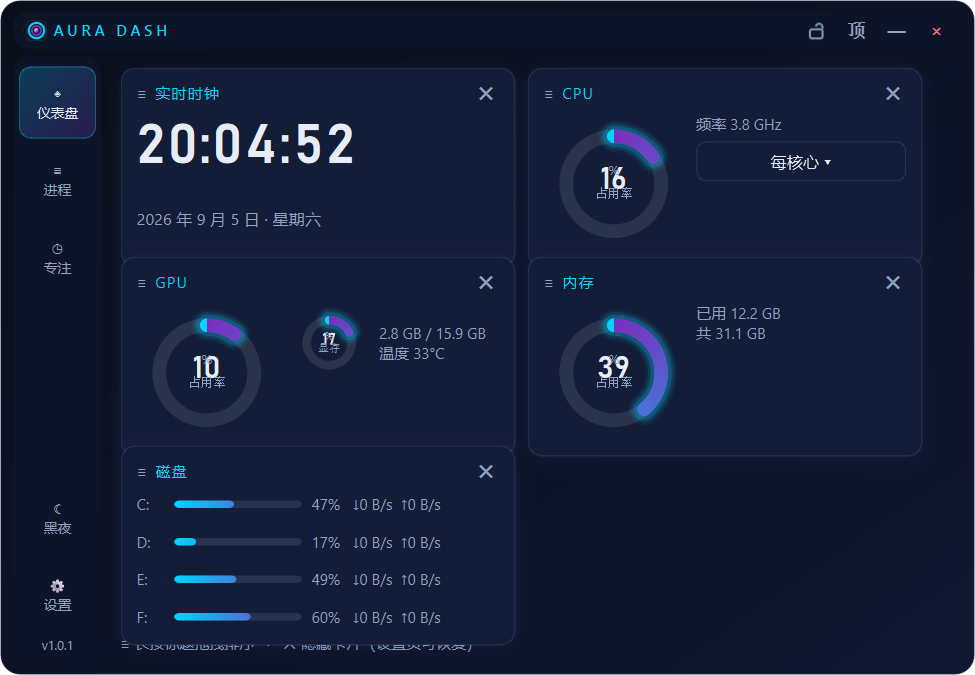
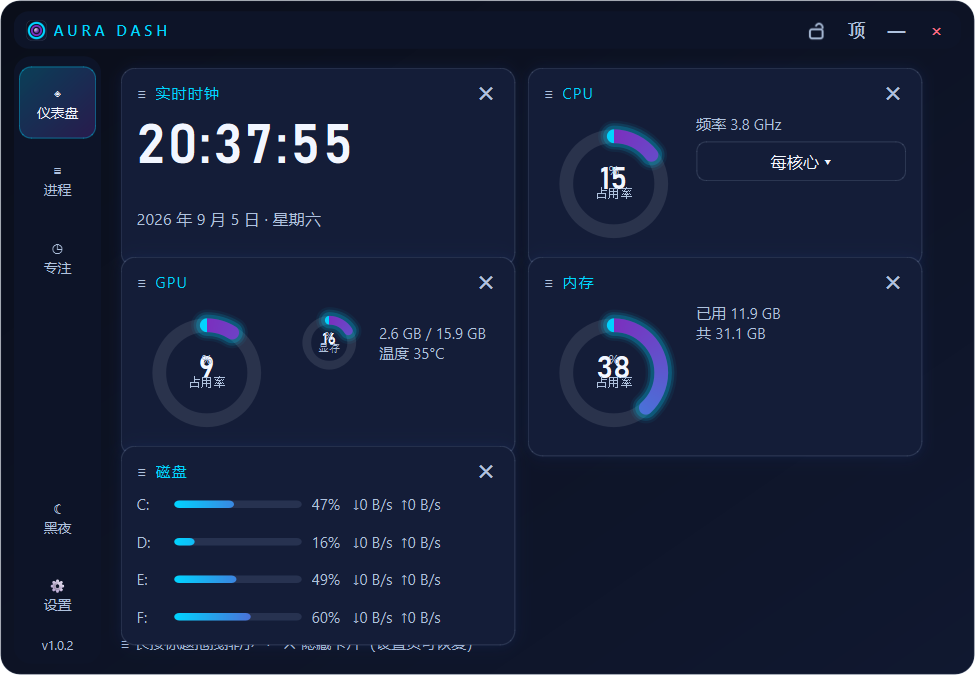
fix(ui): v1.0.2 - 设置界面高对比 & 仪表盘响应式单列
- 设置窗口：实底卡片背景 + 专属文字配色规则，标签/下拉/复选一律高对比亮色
- 次要文字全局提亮（深色主题 #8FA3C0 → #AFC2DE）
- 设置窗口标签页（QTabBar）完整样式：选中渐变高亮
- 仪表盘：窗口变窄（<580px）时卡片自动转为单列，避免重叠遮挡
- 版本号 1.0.2

diff --git a/aurar/pages/dashboard.py b/aurar/pages/dashboard.py
@@ -368,9 +368,9 @@ class DashboardPage(Page):
         for cid, factory in CARD_FACTORIES.items():
             card = factory(self)
             self._cards[cid] = card
-        hint = make_label("≡ 长按标题拖拽排序   ·   ✕ 隐藏卡片（设置页可恢复）",
-                          "SubText", size=11, parent=self)
-        self._grid.addWidget(hint, 99, 0, 1, 2, Qt.AlignmentFlag.AlignLeft)
+        self._hint = make_label("≡ 长按标题拖拽排序   ·   ✕ 隐藏卡片（设置页可恢复）",
+                                "SubText", size=11, parent=self)
+        self._grid.addWidget(self._hint, 99, 0, 1, 2, Qt.AlignmentFlag.AlignLeft)
         self._grid.setRowStretch(99, 1)
         self.subscribe("sysmon:data", self.on_data)
         self.cfg.changed.connect(self._on_cfg)
@@ -386,14 +386,32 @@ class DashboardPage(Page):
         order += [cid for cid in CARD_FACTORIES if cid not in order]
         return [cid for cid in order if cid in self._cards and cid not in hidden]
 
-    def _relayout(self):
+    def _cols_for(self, width: int) -> int:
+        """窗口变窄时卡片自动收为单列，避免重叠遮挡。"""
+        return 1 if width < 580 else 2
+
+    def _relayout(self, cols: int | None = None):
+        if cols is None:
+            cols = self._cols_for(self.width())
+        cols = max(1, min(2, cols))
+        self._cols = cols
         for card in self._cards.values():
             self._grid.removeWidget(card)
+        self._grid.removeWidget(self._hint)
         for i, cid in enumerate(self._visible_order()):
             card = self._cards[cid]
-            self._grid.addWidget(card, i // 2, i % 2)
+            self._grid.addWidget(card, i // cols, i % cols)
             card.setMinimumHeight(160)
+        self._grid.addWidget(self._hint, 99, 0, 1, cols, Qt.AlignmentFlag.AlignLeft)
         self._grid.setRowStretch(99, 1)
+
+    def resizeEvent(self, ev):
+        super().resizeEvent(ev)
+        if not hasattr(self, "_hint"):
+            return  # 尚未构建完成
+        new_cols = self._cols_for(self.width())
+        if new_cols != getattr(self, "_cols", None):
+            self._relayout(new_cols)
 
     def hide_card(self, cid: str):
         hidden = [h for h in self.cfg.get("hidden_cards", []) if h != cid]

diff --git a/aurar/core/theme.py b/aurar/core/theme.py
@@ -13,8 +13,8 @@ log = get_logger("theme")
 BASE_DARK = {
     "bg": "#0A0E1A",
     "bg2": "#101830",
-    "text": "#E6ECF8",
-    "sub": "#8FA3C0",
+    "text": "#F2F6FF",
+    "sub": "#AFC2DE",       # 次要文字：提亮，保证深色背景下高对比
     "danger": "#FF6B81",
     "card": "#141D38",      # 卡片实底（不随透明度变化 → 文字始终高对比）
     "chrome": "#0D1428",    # 标题栏/侧栏实底
@@ -269,6 +269,24 @@ QToolTip {
     border-radius: 6px; padding: 4px 8px;
 }
 QSizeGrip { background: transparent; width: 14px; height: 14px; }
-QMessageBox, QDialog { background: @@BG2@@; }
+QMessageBox, QDialog {
+    background: @@CARD@@; border: 1px solid @@BORDER@@;
+}
+QDialog QLabel { color: @@TEXT@@; }
+QDialog QLabel#SubText { color: @@SUB@@; }
+QDialog QCheckBox { color: @@TEXT@@; }
+
+/* ---------- 标签页（设置窗口） ---------- */
+QTabWidget::pane { border: none; margin-top: 8px; }
+QTabBar::tab {
+    background: transparent; color: @@SUB@@; padding: 8px 18px;
+    border: none; border-radius: 9px; margin-right: 4px; font-size: 13px;
+}
+QTabBar::tab:hover { color: @@TEXT@@; background: @@PANEL2@@; }
+QTabBar::tab:selected {
+    background: qlineargradient(x1:0, y1:0, x2:1, y2:0,
+                stop:0 rgba(0,212,255,0.25), stop:1 rgba(123,47,190,0.28));
+    color: @@TEXT@@; font-weight: 600;
+}
 QStatusBar { background: transparent; color: @@SUB@@; }
 """

diff --git a/main.py b/main.py
@@ -20,7 +20,7 @@ def _build_parser():
                         help="启动时不申请管理员权限")
     parser.add_argument("--screenshot", metavar="DIR",
                         help="开发者工具：将各页面截图保存到 DIR 后退出")
-    parser.add_argument("--version", action="version", version="AuraDash 1.0.1")
+    parser.add_argument("--version", action="version", version="AuraDash 1.0.2")
     return parser
 
 

diff --git a/aurar/__init__.py b/aurar/__init__.py
@@ -7,5 +7,5 @@
     aurar.ui       主窗口与通用控件
 """
 
-__version__ = "1.0.1"
+__version__ = "1.0.2"
 APP_NAME = "AuraDash"

diff --git a/README.md b/README.md
@@ -12,7 +12,7 @@
 [![PySide6](https://img.shields.io/badge/PySide6-6.8%2B-3776AB?logo=qt&logoColor=white)](https://doc.qt.io/qtforpython-6/)
 [![Windows](https://img.shields.io/badge/Windows-10%2022H2%2F11-0078D4?logo=windows&logoColor=white)](https://www.microsoft.com/windows)
 [![License](https://img.shields.io/badge/License-MIT-2ea44f?logo=opensourceinitiative&logoColor=white)](LICENSE)
-[![Release](https://img.shields.io/badge/release-v1.0.1-00D4FF)](https://github.com/Zero20230619/AuraDash)
+[![Release](https://img.shields.io/badge/release-v1.0.2-00D4FF)](https://github.com/Zero20230619/AuraDash)
 
 </div>
 
@@ -75,7 +75,7 @@
 
 ### 方式零：下载发布版（最简单）
 
-前往 [Releases](https://github.com/Zero20230619/AuraDash/releases) 下载 `AuraDash_v1.0.1.exe`，双击即用（免安装，单文件）。
+前往 [Releases](https://github.com/Zero20230619/AuraDash/releases) 下载 `AuraDash_v1.0.2.exe`，双击即用（免安装，单文件）。
 > Windows 智能屏幕提示“未知发布者”时：`更多信息 → 仍要运行`（未做代码签名，属正常现象）。
 
 ### 方式一：直接运行（开发模式）
@@ -99,7 +99,7 @@ powershell -ExecutionPolicy Bypass -File build.ps1
 
 1. 安装 [Inno Setup 6](https://jrsoftware.org/isinfo.php)
 2. 运行 `build.ps1` 后，用 Inno Setup 打开 `installer\AuraDash.iss` 编译
-3. 得到 `installer\AuraDash_Setup_1.0.1.exe`：一键安装、可选桌面快捷方式 / 开始菜单 / 开机自启，自动请求 UAC，支持控制面板卸载
+3. 得到 `installer\AuraDash_Setup_1.0.2.exe`：一键安装、可选桌面快捷方式 / 开始菜单 / 开机自启，自动请求 UAC，支持控制面板卸载
 
 > Windows 智能屏幕若提示未知发布者：`更多信息 → 仍要运行`（开源项目未做代码签名，属正常现象）。
 
